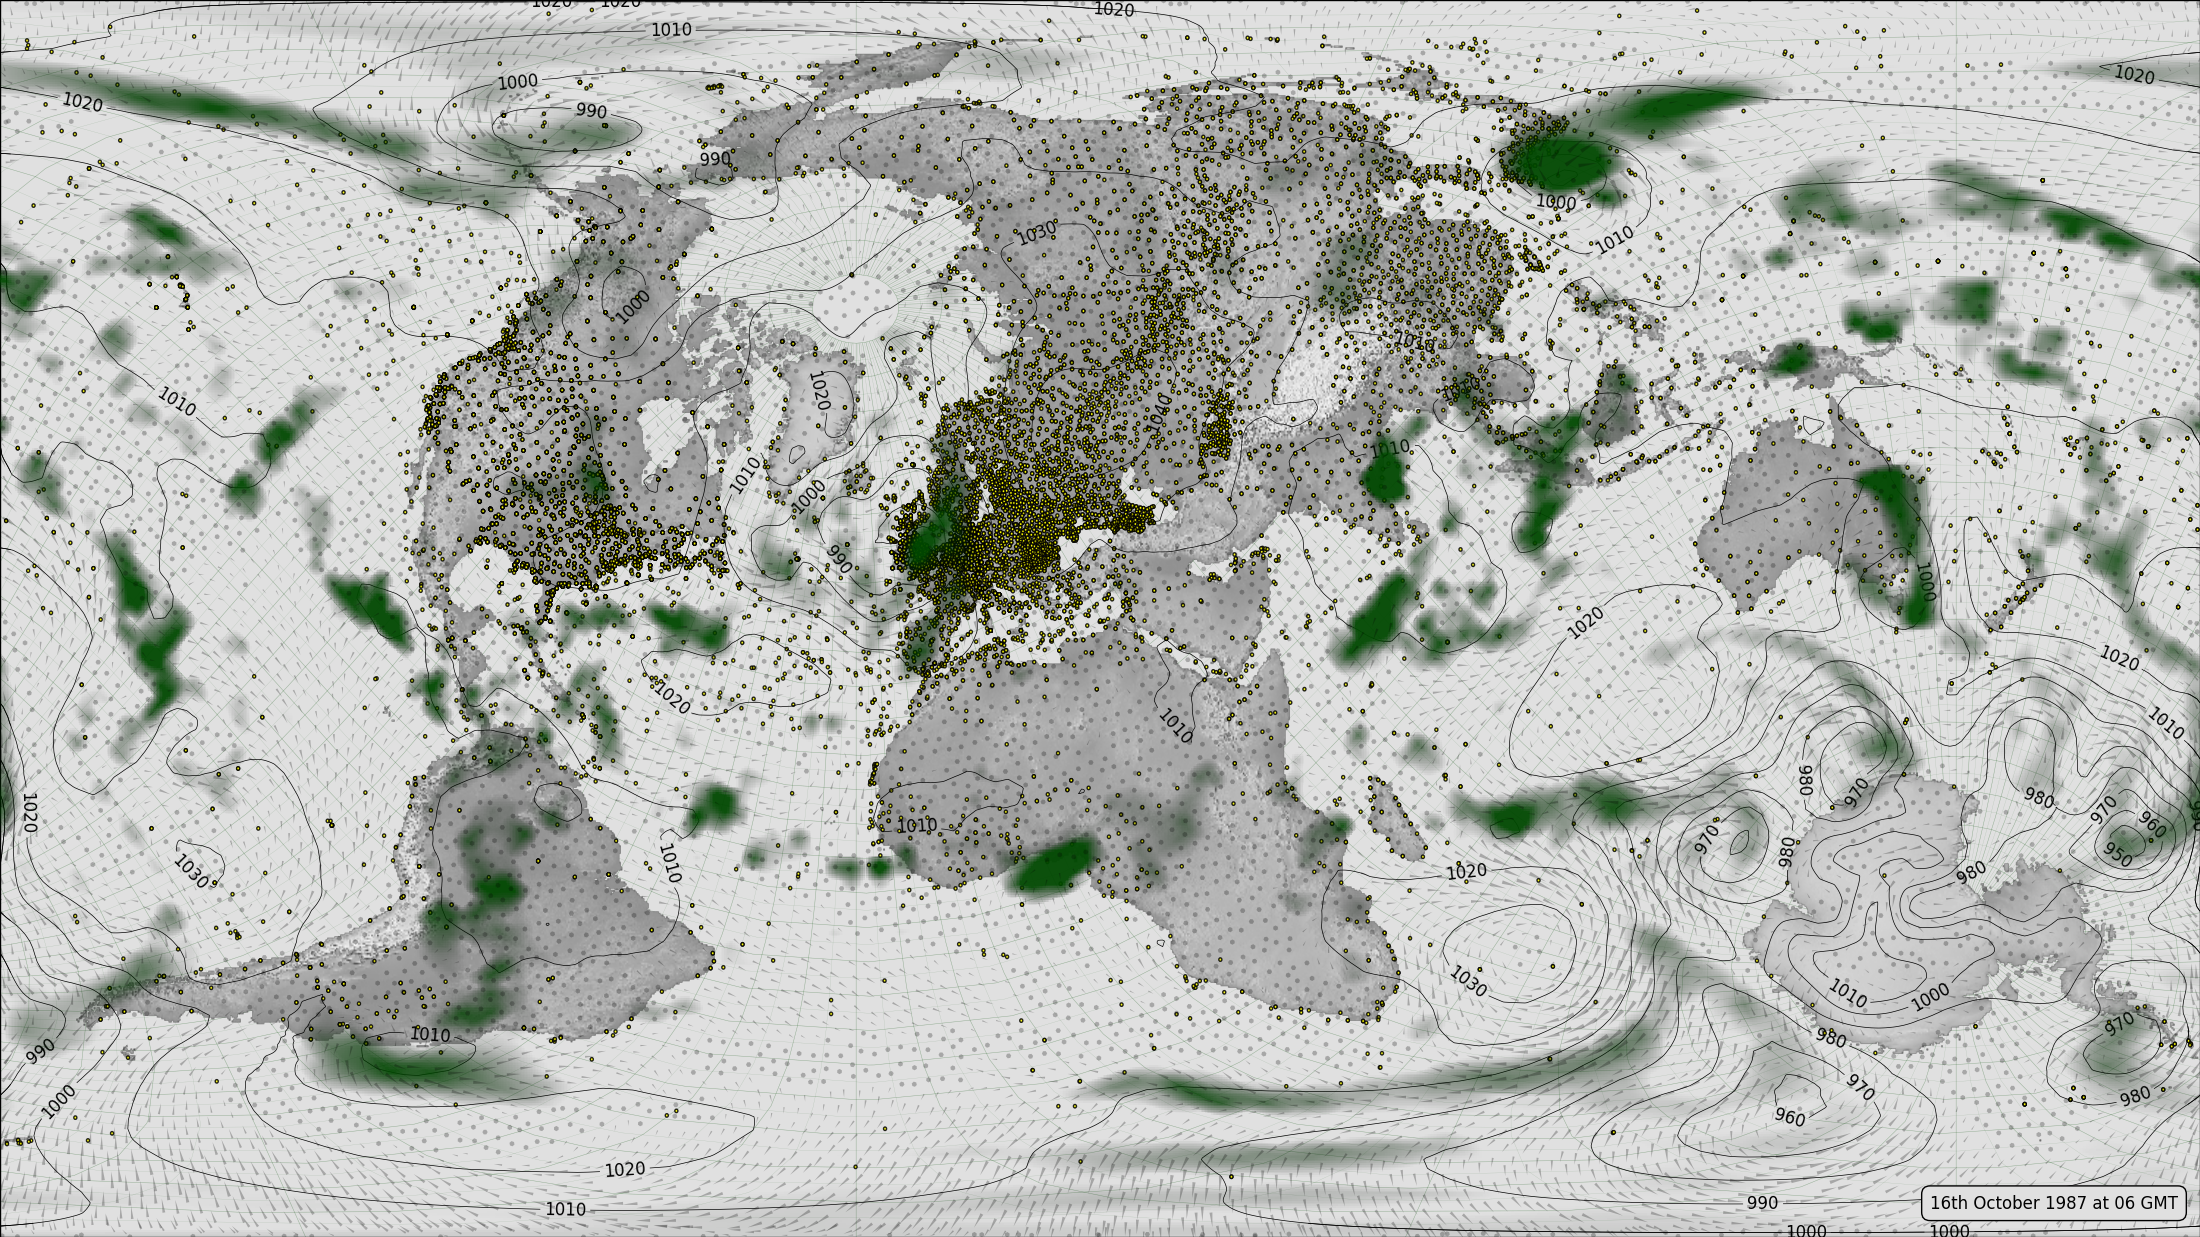
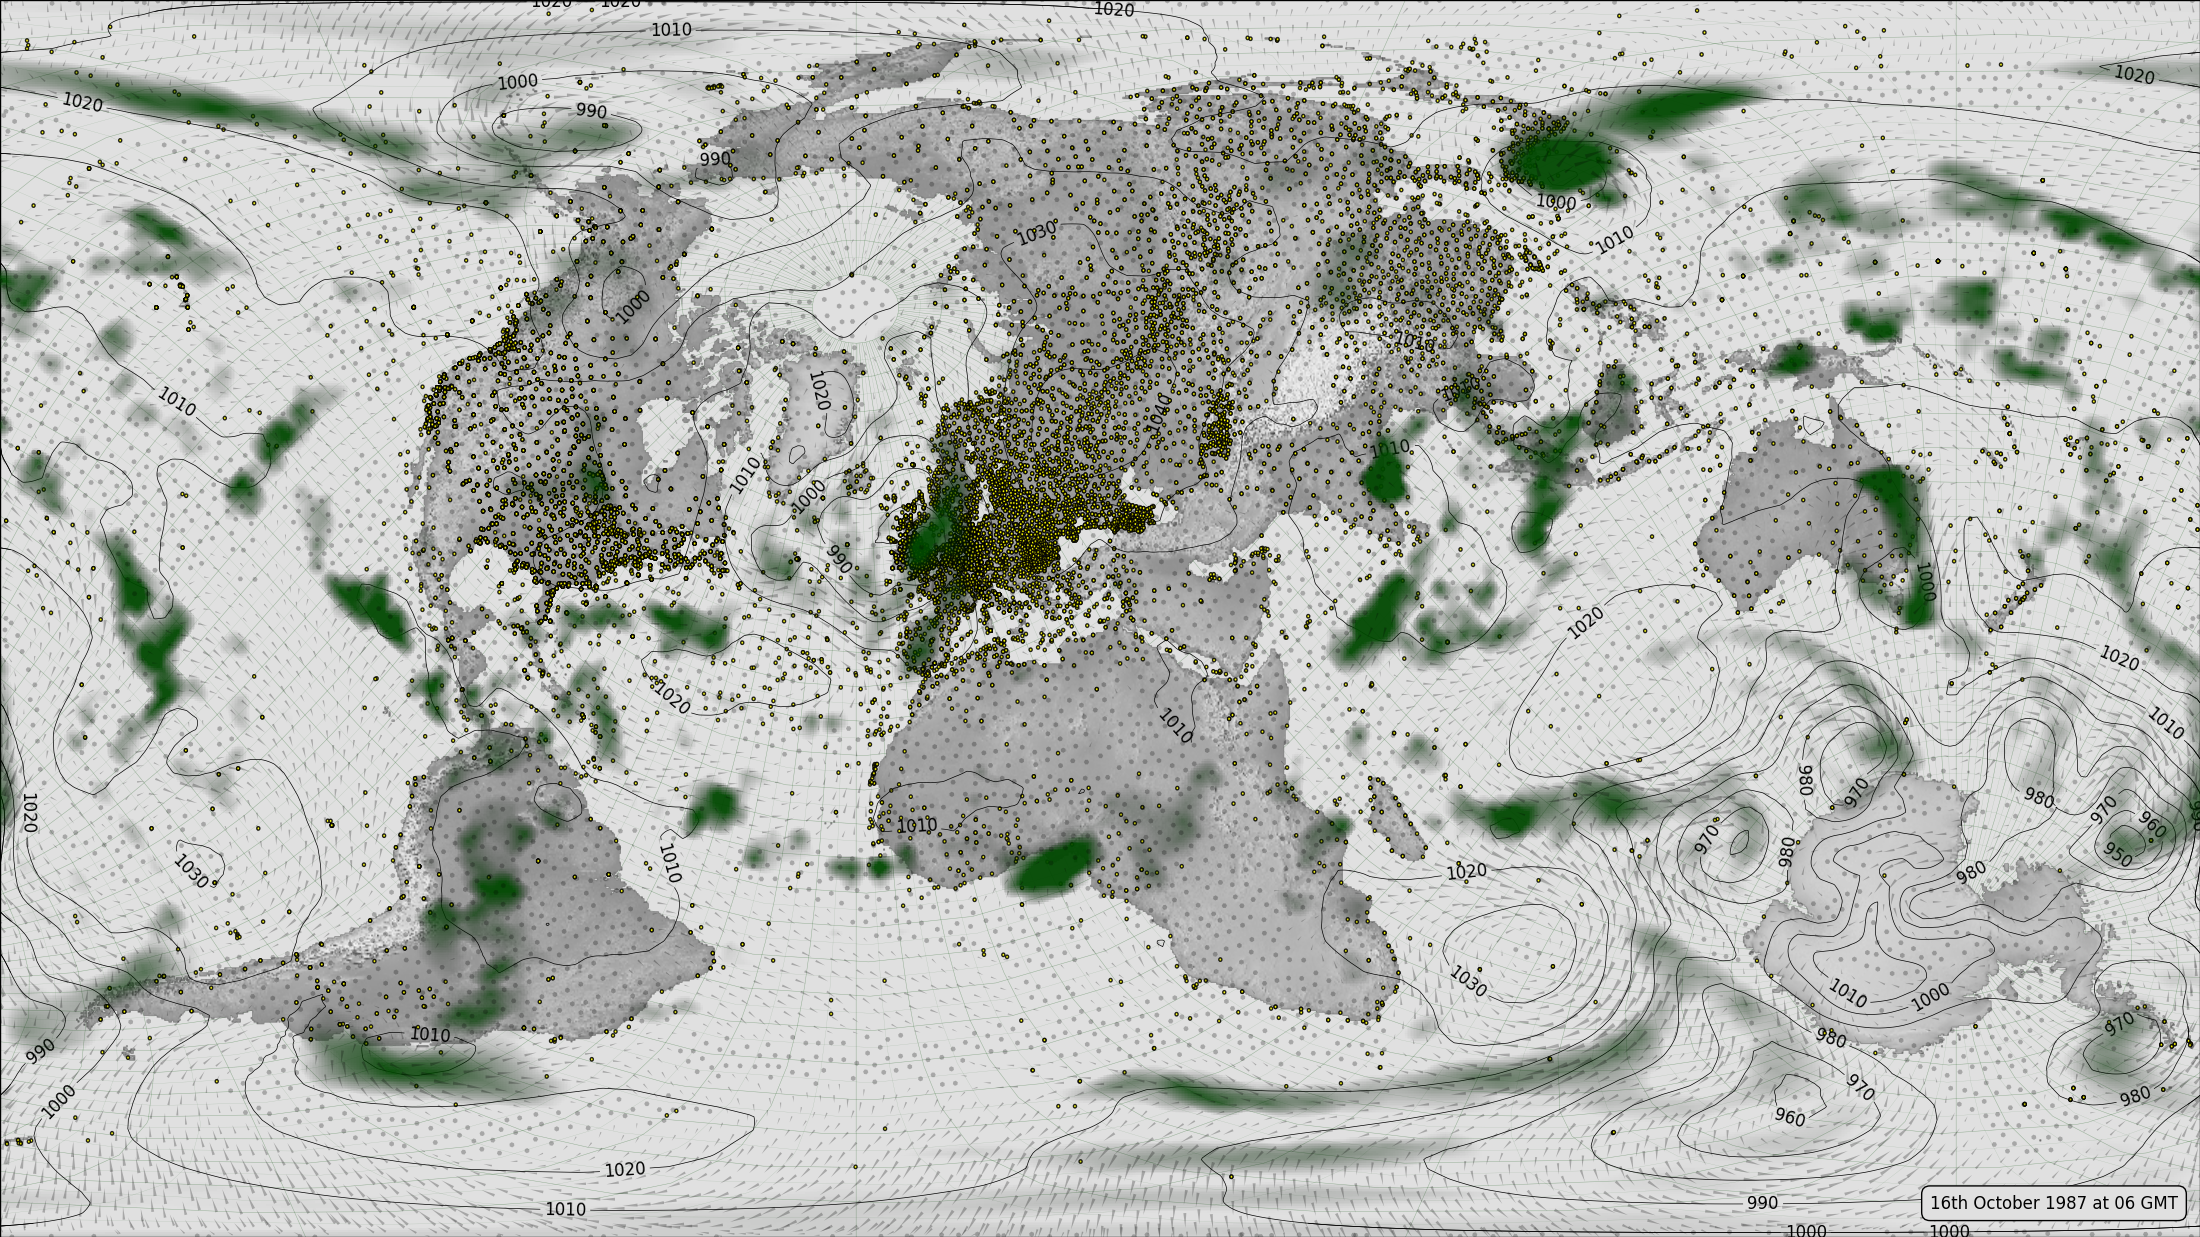
Documentation update.

diff --git a/examples/global_rotated/multivariate.html b/examples/global_rotated/multivariate.html
@@ -86,8 +86,8 @@ Please <a href="https://github.com/philip-brohan/Meteorographica/issues/new">rai
             
   <div class="section" id="meteorographica-examples-rotated-pole">
 <h1>Meteorographica examples: rotated pole<a class="headerlink" href="#meteorographica-examples-rotated-pole" title="Permalink to this headline">¶</a></h1>
-<div class="figure align-center" id="id1" style="width: 700px">
-<a class="reference internal image-reference" href="../../_images/multivariate1.png"><img alt="../../_images/multivariate1.png" src="../../_images/multivariate1.png" style="width: 650px;" /></a>
+<div class="figure align-center" id="id1" style="width: 95%">
+<a class="reference internal image-reference" href="../../_images/multivariate1.png"><img alt="../../_images/multivariate1.png" src="../../_images/multivariate1.png" style="width: 95%;" /></a>
 <p class="caption"><span class="caption-text">Surface weather: MSLP (contours), 10m wind (vectors), observations (points), and precipitation (green shading), with a rotated pole.</span></p>
 </div>
 <div class="highlight-default notranslate"><div class="highlight"><pre><span></span><span class="c1"># Meteorographica example script</span>
@@ -174,7 +174,7 @@ Please <a href="https://github.com/philip-brohan/Meteorographica/issues/new">rai
                  <span class="s1">&#39;example_data/20CR2c.1987101606.prmsl.nc&#39;</span><span class="p">)</span>
 <span class="n">prmsl</span><span class="o">=</span><span class="n">iris</span><span class="o">.</span><span class="n">load_cube</span><span class="p">(</span><span class="n">edf</span><span class="p">)</span>
 <span class="n">prmsl</span><span class="o">=</span><span class="n">prmsl</span><span class="o">.</span><span class="n">extract</span><span class="p">(</span><span class="n">iris</span><span class="o">.</span><span class="n">Constraint</span><span class="p">(</span><span class="n">member</span><span class="o">=</span><span class="mi">1</span><span class="p">))</span>
-<span class="n">mg</span><span class="o">.</span><span class="n">pressure</span><span class="o">.</span><span class="n">plot</span><span class="p">(</span><span class="n">ax</span><span class="p">,</span><span class="n">prmsl</span><span class="p">,</span><span class="n">scale</span><span class="o">=</span><span class="mf">0.01</span><span class="p">)</span>
+<span class="n">mg</span><span class="o">.</span><span class="n">pressure</span><span class="o">.</span><span class="n">plot</span><span class="p">(</span><span class="n">ax</span><span class="p">,</span><span class="n">prmsl</span><span class="p">,</span><span class="n">scale</span><span class="o">=</span><span class="mf">0.01</span><span class="p">,</span><span class="n">resolution</span><span class="o">=</span><span class="mf">0.25</span><span class="p">)</span>
 
 <span class="c1"># Also precip</span>
 <span class="n">edf</span><span class="o">=</span><span class="n">pkg_resources</span><span class="o">.</span><span class="n">resource_filename</span><span class="p">(</span>
@@ -182,7 +182,7 @@ Please <a href="https://github.com/philip-brohan/Meteorographica/issues/new">rai
                  <span class="s1">&#39;example_data/20CR2c.1987101606.prate.nc&#39;</span><span class="p">)</span>
 <span class="n">prate</span><span class="o">=</span><span class="n">iris</span><span class="o">.</span><span class="n">load_cube</span><span class="p">(</span><span class="n">edf</span><span class="p">)</span>
 <span class="n">prate</span><span class="o">=</span><span class="n">prate</span><span class="o">.</span><span class="n">extract</span><span class="p">(</span><span class="n">iris</span><span class="o">.</span><span class="n">Constraint</span><span class="p">(</span><span class="n">member</span><span class="o">=</span><span class="mi">1</span><span class="p">))</span>
-<span class="n">mg</span><span class="o">.</span><span class="n">precipitation</span><span class="o">.</span><span class="n">plot</span><span class="p">(</span><span class="n">ax</span><span class="p">,</span><span class="n">prate</span><span class="p">)</span>
+<span class="n">mg</span><span class="o">.</span><span class="n">precipitation</span><span class="o">.</span><span class="n">plot</span><span class="p">(</span><span class="n">ax</span><span class="p">,</span><span class="n">prate</span><span class="p">,</span><span class="n">resolution</span><span class="o">=</span><span class="mf">0.25</span><span class="p">)</span>
 
 <span class="c1"># Add the observations </span>
 <span class="n">edf</span><span class="o">=</span><span class="n">pkg_resources</span><span class="o">.</span><span class="n">resource_filename</span><span class="p">(</span>

diff --git a/examples/uk_comparisons/pressure_uncertainty_comparison.html b/examples/uk_comparisons/pressure_uncertainty_comparison.html
@@ -82,8 +82,8 @@ Please <a href="https://github.com/philip-brohan/Meteorographica/issues/new">rai
             
   <div class="section" id="meteorographica-examples-side-by-side-regional-plot">
 <h1>Meteorographica examples: side-by-side regional plot<a class="headerlink" href="#meteorographica-examples-side-by-side-regional-plot" title="Permalink to this headline">¶</a></h1>
-<div class="figure align-center" id="id1" style="width: 700px">
-<a class="reference internal image-reference" href="../../_images/pressure_uncertainty_comparison.png"><img alt="../../_images/pressure_uncertainty_comparison.png" src="../../_images/pressure_uncertainty_comparison.png" style="width: 650px;" /></a>
+<div class="figure align-center" id="id1" style="width: 95%">
+<a class="reference internal image-reference" href="../../_images/pressure_uncertainty_comparison.png"><img alt="../../_images/pressure_uncertainty_comparison.png" src="../../_images/pressure_uncertainty_comparison.png" style="width: 95%;" /></a>
 <p class="caption"><span class="caption-text">Side-by-side comparison plot of regional mslp. Two views of the same data - spaghetti plot on the left, contour-spread plot on the right.</span></p>
 </div>
 <div class="highlight-default notranslate"><div class="highlight"><pre><span></span><span class="c1"># Meteorographica example script</span>

diff --git a/examples/global_plot/multivariate.html b/examples/global_plot/multivariate.html
@@ -86,8 +86,8 @@ Please <a href="https://github.com/philip-brohan/Meteorographica/issues/new">rai
             
   <div class="section" id="meteorographica-examples-surface-weather">
 <h1>Meteorographica examples: surface weather<a class="headerlink" href="#meteorographica-examples-surface-weather" title="Permalink to this headline">¶</a></h1>
-<div class="figure align-center" id="id1" style="width: 700px">
-<a class="reference internal image-reference" href="../../_images/multivariate.png"><img alt="../../_images/multivariate.png" src="../../_images/multivariate.png" style="width: 650px;" /></a>
+<div class="figure align-center" id="id1" style="width: 95%">
+<a class="reference internal image-reference" href="../../_images/multivariate.png"><img alt="../../_images/multivariate.png" src="../../_images/multivariate.png" style="width: 95%;" /></a>
 <p class="caption"><span class="caption-text">Surface weather: MSLP (contours), 10m wind (vectors), observations (points), and precipitation (green shading).</span></p>
 </div>
 <div class="highlight-default notranslate"><div class="highlight"><pre><span></span><span class="c1"># Meteorographica example script</span>

diff --git a/examples/global_plot/pressure_contour.html b/examples/global_plot/pressure_contour.html
@@ -86,8 +86,8 @@ Please <a href="https://github.com/philip-brohan/Meteorographica/issues/new">rai
             
   <div class="section" id="meteorographica-examples-mslp-contours">
 <h1>Meteorographica examples: MSLP contours<a class="headerlink" href="#meteorographica-examples-mslp-contours" title="Permalink to this headline">¶</a></h1>
-<div class="figure align-center" id="id1" style="width: 700px">
-<a class="reference internal image-reference" href="../../_images/pressure_contour.png"><img alt="../../_images/pressure_contour.png" src="../../_images/pressure_contour.png" style="width: 650px;" /></a>
+<div class="figure align-center" id="id1" style="width: 95%">
+<a class="reference internal image-reference" href="../../_images/pressure_contour.png"><img alt="../../_images/pressure_contour.png" src="../../_images/pressure_contour.png" style="width: 95%;" /></a>
 <p class="caption"><span class="caption-text">Contours of mean-sea-level-pressure.</span></p>
 </div>
 <div class="highlight-default notranslate"><div class="highlight"><pre><span></span><span class="c1"># Meteorographica example script</span>

diff --git a/examples/pressure_uncertainties/spread.html b/examples/pressure_uncertainties/spread.html
@@ -86,8 +86,8 @@ Please <a href="https://github.com/philip-brohan/Meteorographica/issues/new">rai
             
   <div class="section" id="meteorographica-examples-mslp-contour-spread-plot">
 <h1>Meteorographica examples: MSLP contour spread plot<a class="headerlink" href="#meteorographica-examples-mslp-contour-spread-plot" title="Permalink to this headline">¶</a></h1>
-<div class="figure align-center" id="id1" style="width: 700px">
-<a class="reference internal image-reference" href="../../_images/spread.png"><img alt="../../_images/spread.png" src="../../_images/spread.png" style="width: 650px;" /></a>
+<div class="figure align-center" id="id1" style="width: 95%">
+<a class="reference internal image-reference" href="../../_images/spread.png"><img alt="../../_images/spread.png" src="../../_images/spread.png" style="width: 95%;" /></a>
 <p class="caption"><span class="caption-text">Contour-spread plot of mean-sea-level-pressure ensemble.</span></p>
 </div>
 <div class="highlight-default notranslate"><div class="highlight"><pre><span></span><span class="c1"># Meteorographica example script</span>

diff --git a/examples/pressure_uncertainties/spaghetti.html b/examples/pressure_uncertainties/spaghetti.html
@@ -86,8 +86,8 @@ Please <a href="https://github.com/philip-brohan/Meteorographica/issues/new">rai
             
   <div class="section" id="meteorographica-examples-mslp-spaghetti-plot">
 <h1>Meteorographica examples: MSLP spaghetti plot<a class="headerlink" href="#meteorographica-examples-mslp-spaghetti-plot" title="Permalink to this headline">¶</a></h1>
-<div class="figure align-center" id="id1" style="width: 700px">
-<a class="reference internal image-reference" href="../../_images/spaghetti.png"><img alt="../../_images/spaghetti.png" src="../../_images/spaghetti.png" style="width: 650px;" /></a>
+<div class="figure align-center" id="id1" style="width: 95%">
+<a class="reference internal image-reference" href="../../_images/spaghetti.png"><img alt="../../_images/spaghetti.png" src="../../_images/spaghetti.png" style="width: 95%;" /></a>
 <p class="caption"><span class="caption-text">Spaghetti plot of mean-sea-level-pressure ensemble.</span></p>
 </div>
 <div class="highlight-default notranslate"><div class="highlight"><pre><span></span><span class="c1"># Meteorographica example script</span>

diff --git a/examples/background/background.html b/examples/background/background.html
@@ -86,8 +86,8 @@ Please <a href="https://github.com/philip-brohan/Meteorographica/issues/new">rai
             
   <div class="section" id="meteorographica-examples-map-background">
 <h1>Meteorographica examples: map background<a class="headerlink" href="#meteorographica-examples-map-background" title="Permalink to this headline">¶</a></h1>
-<div class="figure align-center" id="id1" style="width: 700px">
-<a class="reference internal image-reference" href="../../_images/background.png"><img alt="../../_images/background.png" src="../../_images/background.png" style="width: 650px;" /></a>
+<div class="figure align-center" id="id1" style="width: 95%">
+<a class="reference internal image-reference" href="../../_images/background.png"><img alt="../../_images/background.png" src="../../_images/background.png" style="width: 95%;" /></a>
 <p class="caption"><span class="caption-text">Background (continents and lat:lon grid) for weather plots.</span></p>
 </div>
 <div class="highlight-default notranslate"><div class="highlight"><pre><span></span><span class="c1"># Meteorographica example script</span>

diff --git a/examples/global_plot/precipitation.html b/examples/global_plot/precipitation.html
@@ -86,8 +86,8 @@ Please <a href="https://github.com/philip-brohan/Meteorographica/issues/new">rai
             
   <div class="section" id="meteorographica-examples-precipitation">
 <h1>Meteorographica examples: Precipitation<a class="headerlink" href="#meteorographica-examples-precipitation" title="Permalink to this headline">¶</a></h1>
-<div class="figure align-center" id="id1" style="width: 700px">
-<a class="reference internal image-reference" href="../../_images/precipitation.png"><img alt="../../_images/precipitation.png" src="../../_images/precipitation.png" style="width: 650px;" /></a>
+<div class="figure align-center" id="id1" style="width: 95%">
+<a class="reference internal image-reference" href="../../_images/precipitation.png"><img alt="../../_images/precipitation.png" src="../../_images/precipitation.png" style="width: 95%;" /></a>
 <p class="caption"><span class="caption-text">Color-map of precipitation.</span></p>
 </div>
 <div class="highlight-default notranslate"><div class="highlight"><pre><span></span><span class="c1"># Meteorographica example script</span>

diff --git a/examples/global_plot/observations.html b/examples/global_plot/observations.html
@@ -86,8 +86,8 @@ Please <a href="https://github.com/philip-brohan/Meteorographica/issues/new">rai
             
   <div class="section" id="meteorographica-examples-observations">
 <h1>Meteorographica examples: Observations<a class="headerlink" href="#meteorographica-examples-observations" title="Permalink to this headline">¶</a></h1>
-<div class="figure align-center" id="id1" style="width: 700px">
-<a class="reference internal image-reference" href="../../_images/observations.png"><img alt="../../_images/observations.png" src="../../_images/observations.png" style="width: 650px;" /></a>
+<div class="figure align-center" id="id1" style="width: 95%">
+<a class="reference internal image-reference" href="../../_images/observations.png"><img alt="../../_images/observations.png" src="../../_images/observations.png" style="width: 95%;" /></a>
 <p class="caption"><span class="caption-text">Observations of surface-pressure.</span></p>
 </div>
 <div class="highlight-default notranslate"><div class="highlight"><pre><span></span><span class="c1"># Meteorographica example script</span>

diff --git a/examples/global_plot/wind.html b/examples/global_plot/wind.html
@@ -86,8 +86,8 @@ Please <a href="https://github.com/philip-brohan/Meteorographica/issues/new">rai
             
   <div class="section" id="meteorographica-examples-10m-wind-arrows">
 <h1>Meteorographica examples: 10m wind arrows<a class="headerlink" href="#meteorographica-examples-10m-wind-arrows" title="Permalink to this headline">¶</a></h1>
-<div class="figure align-center" id="id1" style="width: 700px">
-<a class="reference internal image-reference" href="../../_images/wind.png"><img alt="../../_images/wind.png" src="../../_images/wind.png" style="width: 650px;" /></a>
+<div class="figure align-center" id="id1" style="width: 95%">
+<a class="reference internal image-reference" href="../../_images/wind.png"><img alt="../../_images/wind.png" src="../../_images/wind.png" style="width: 95%;" /></a>
 <p class="caption"><span class="caption-text">Arrows indicating 10m wind.</span></p>
 </div>
 <div class="highlight-default notranslate"><div class="highlight"><pre><span></span><span class="c1"># Meteorographica example script</span>
